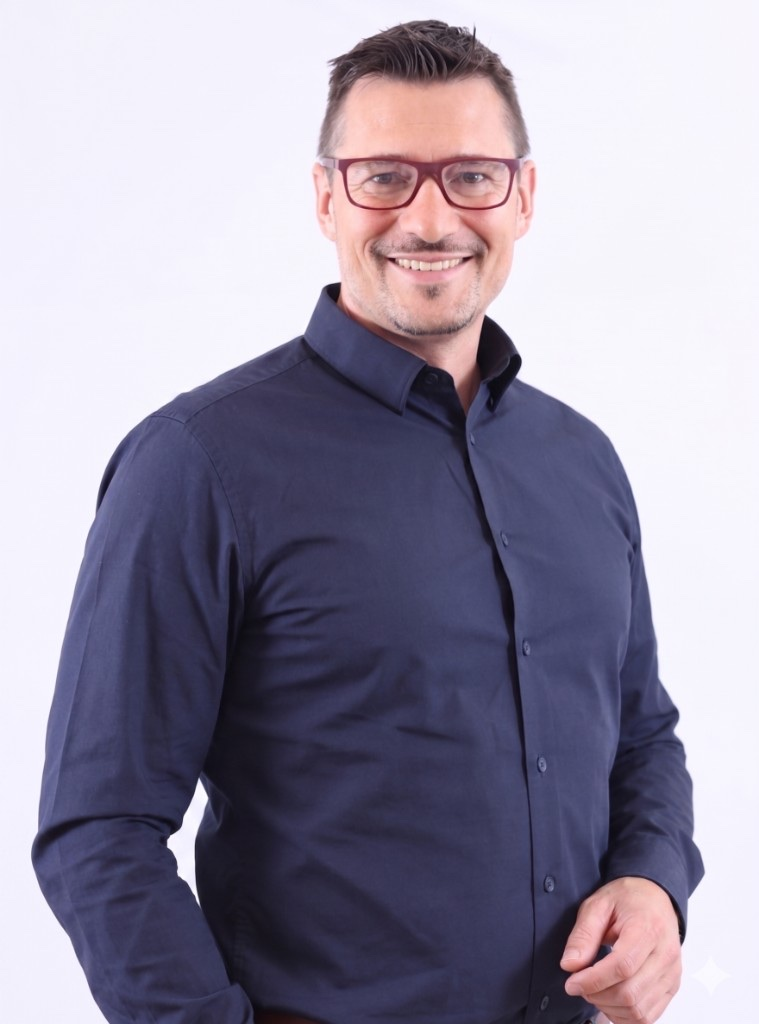
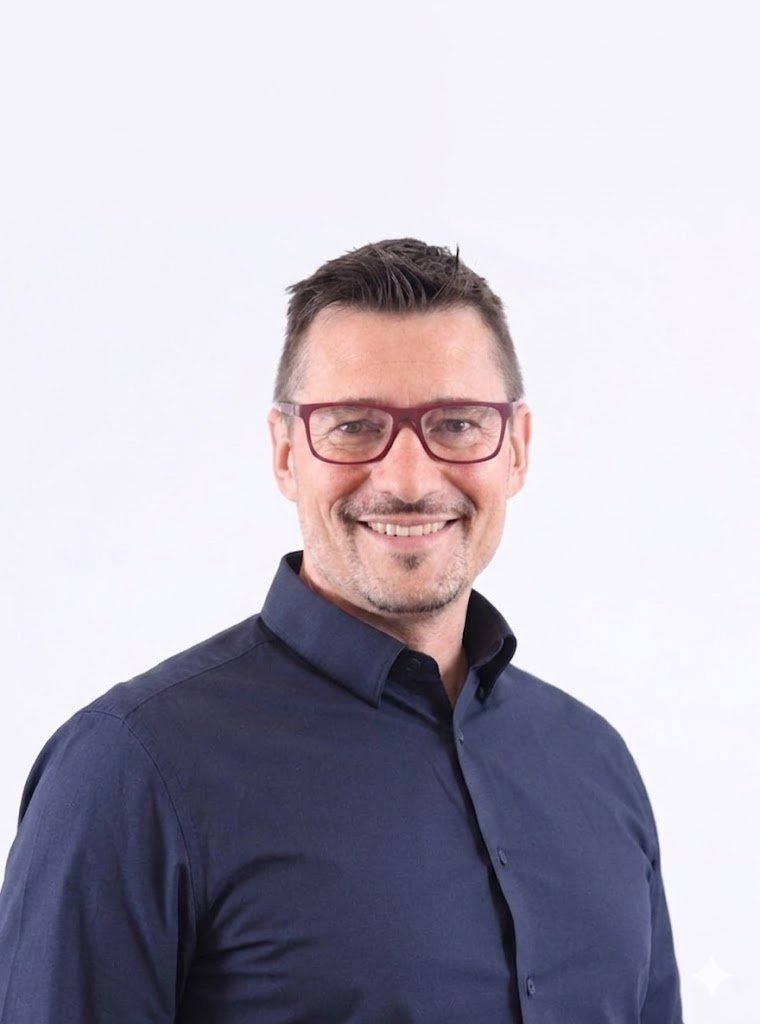
feat: replace Denis photo and zoom in on Petar

diff --git a/src/data/site.ts b/src/data/site.ts
@@ -134,7 +134,7 @@ export const team: TeamMember[] = [
     role: "Inhaber & Gründer",
     desc: "Visionär hinter einer der grünsten Elektroflotten der Schweiz.",
     image: denisImg,
-    imagePosition: "top",
+    imagePosition: "center 89%",
   },
   {
     name: "Petar Grahovac",
